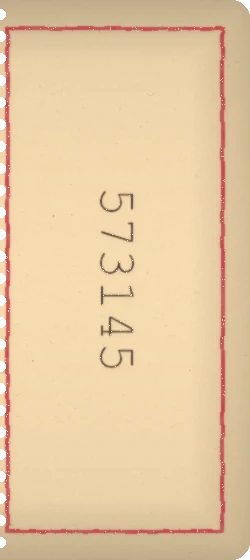
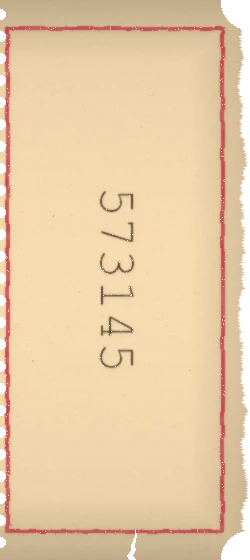
feat: /preview/ with draft renders in place, roll ticket w torn ends, real tape, star irises in

Changed region(s): [[0.868, 0.0, 1.0, 1.0], [0.504, 0.9411, 0.56, 1.0]]

diff --git a/src/styles.css b/src/styles.css
@@ -3060,3 +3060,42 @@ html.is-app, html.is-app body { overflow: hidden; }
 body:not(.is-home) .foot { height: auto; }
 body:not(.is-home) .foot__pin { position: relative; height: 60svh; opacity: 1; }
 .mfx__bill::after { background: linear-gradient(to top, #141414 0%, rgba(20,20,20,0) 32%), linear-gradient(77deg, rgba(0,0,0,0.6) 0%, rgba(0,0,0,0) 62%); }
+/* Tape is a texture of real torn masking tape, not a box. */
+.polaroid::before { clip-path: none !important; background: url("/media/props/tape/tape-1.png") center / 100% 100% no-repeat !important; width: 96px; height: 28px; margin-left: -48px; top: -12px; filter: drop-shadow(0 1px 1px rgba(0,0,0,0.25)); }
+.polaroid:nth-child(2)::before { background-image: url("/media/props/tape/tape-2.png") !important; }
+.polaroid:nth-child(3)::before { background-image: url("/media/props/tape/tape-3.png") !important; }
+
+/* ===== /preview/ only: draft renders standing in for the real ones. */
+.draft-tag { display: none; }
+.is-preview .draft-tag { display: inline-block; position: absolute; z-index: 30; top: 14px; left: 14px; padding: 4px 9px; border-radius: 3px; background: #ffd400; color: #111; font: 600 11px/1.3 "Inter", sans-serif; letter-spacing: 0.04em; text-transform: uppercase; max-width: 60vw; }
+.is-preview .scene--films .scene__pin { --W: max(100vw, 177.78vh); --H: max(56.25vw, 100vh); }
+.is-preview .draft-hall { position: absolute; left: 50%; top: 50%; width: var(--W); height: var(--H); transform: translate(-50%, -50%); object-fit: fill; z-index: 0; }
+.is-preview .scene--films .scene__bg { position: absolute; inset: auto; z-index: 1; left: calc(50% - var(--W) / 2 + var(--W) * 0.297); top: calc(50% - var(--H) / 2 + var(--H) * 0.295); width: calc(var(--W) * 0.4068); height: calc(var(--H) * 0.3954); transform: none !important; }
+.is-preview .scene--films .marquee { display: none; }
+.is-preview .scene--films .scene__copy { z-index: 2; }
+.is-preview .cam__screen { position: relative; overflow: visible !important; aspect-ratio: 933 / 555; }
+.is-preview .draft-mon { position: absolute; z-index: 5; pointer-events: none; left: -46.9%; top: 0; margin-top: -33.86%; width: 192.94%; max-width: none; }
+.is-preview .cam__body { background: none !important; box-shadow: none !important; border: 0 !important; }
+.is-preview .cam__tally { display: none; }
+.is-preview .draft-frame { position: relative; margin: 0 auto; width: min(1200px, 100%); padding: 0 var(--gutter) 80px; }
+.is-preview .draft-frame img { width: 100%; display: block; }
+.is-preview .fl { position: relative; padding: 80px var(--gutter) 120px; background: var(--ground); }
+.is-preview .fl__beats { list-style: none; margin: 40px auto 0; padding: 0; width: min(1200px, 100%); display: grid; grid-template-columns: repeat(3, 1fr); gap: 28px; }
+.is-preview .fl__beat img { width: 100%; aspect-ratio: 16 / 9; object-fit: cover; display: block; filter: saturate(0.7); }
+.is-preview .fl__where { margin: 10px 0 4px; font: 600 12px/1.4 "Inter", sans-serif; letter-spacing: 0.06em; text-transform: uppercase; color: #ffd400; }
+.is-preview .fl__cap { margin: 0; color: rgba(236,228,210,0.8); font-size: 0.92rem; line-height: 1.5; }
+@media (max-width: 700px) { .is-preview .fl__beats { grid-template-columns: 1fr; } }
+.is-preview .draft-slate { position: relative; width: min(380px, 86vw); aspect-ratio: 5 / 6; background: url("/media/draft/slate.webp") center / 100% 100% no-repeat; margin-top: 20px; }
+.is-preview .draft-slate .slate__board { position: absolute; inset: 0; padding: 0 !important; background: none !important; border: 0 !important; box-shadow: none !important; }
+.is-preview .draft-slate label { position: absolute; left: 14.2%; width: 74.4%; height: 6.4%; margin: 0; font-size: 0; color: transparent; }
+.is-preview .draft-slate .row { display: contents; }
+.is-preview .draft-slate .row label:nth-child(1) { top: 67.2%; }
+.is-preview .draft-slate .row label:nth-child(2) { top: 76.5%; }
+.is-preview .draft-slate .slate__board > label { top: 85.9%; }
+.is-preview .draft-slate input, .is-preview .draft-slate textarea { width: 100%; height: 100%; min-height: 0 !important; padding: 0 8px; border: 0 !important; background: transparent !important; font: 500 22px/1 "Caveat", cursive; color: #1e1d1b; resize: none; }
+.is-preview .draft-slate input::placeholder, .is-preview .draft-slate textarea::placeholder { color: rgba(30,29,27,0.45); }
+.is-preview .draft-slate .btn { position: absolute; left: 50%; bottom: -64px; transform: translateX(-50%); }
+.is-preview .draft-slate .form__status { position: absolute; bottom: -100px; left: 0; right: 0; }
+/* The star opens the way Parker closed: an iris. The iris-out on him, the
+   credits on the black, then an iris-in on the star. Same move, bookended. */
+.is-home .foot__pin { opacity: 1; clip-path: circle(calc(var(--fade, 0) * 78%) at 50% 46%); }

diff --git a/build.py b/build.py
@@ -464,6 +464,45 @@ def tv(films):
 """
 
 
+FLIGHT_BEATS = [
+    ("falling", "Dawn over east Boulder, the Flatirons ahead", "2023, Boulder. Falling and Moments From My Life, made for his Film Studies class, and Keeping Up With the Olympians."),
+    ("somnambulist", "Over the First Flatiron, rising past Green Mountain", "2024. Somnambulist, selected by the Colorado High School Film Festival and Rising Stars Colorado."),
+    ("beneath-the-surface", "Climbing west over the Continental Divide", "2024. Beneath the Surface, the film that got him into the USC School of Cinematic Arts."),
+    ("mad", "High over the red rock of the Colorado Plateau at noon", "2024. Mad, the film that got him into Loyola Marymount's Film Production program."),
+    ("abundance", "Across the Mojave, down over the San Gabriels at sunset", "2025, Los Angeles. Abundance, selected for Indie Film LA."),
+    ("scar-tissue", "Mulholland at dusk, Parker on the ridge, the basin lit", "2026, USC. Scar Tissue, Reflect and As We Are, You Shall Be, his shorts for USC production classes."),
+]
+
+
+def preview(home_html):
+    """/preview/: the whole planned site with the props agent's low-sample
+    draft renders standing in, so the layout can be judged before the real
+    renders run. Every stand-in wears a DRAFT tag."""
+    h = home_html.replace('<body class="is-home"', '<body class="is-home is-preview"', 1)
+    h = h.replace("<title>", '<meta name="robots" content="noindex"><title>DRAFT · ', 1)
+    # Director: the premiere hall, the film playing on its screen.
+    h = h.replace('<div class="scene__pin">\n      <div class="scene__bg"',
+                  '<div class="scene__pin">\n      <img class="draft-hall" src="/media/draft/premiere.webp" alt=""><span class="draft-tag">Premiere hall, draft render</span>\n      <div class="scene__bg"', 1)
+    # Cinematographer: the real monitor body around the live feed.
+    h = h.replace('<div class="cam__screen">',
+                  '<div class="cam__screen"><img class="draft-mon" src="/media/draft/monitor.webp" alt=""><span class="draft-tag">Monitor, draft render</span>', 1)
+    # About: the knolled kit after the call sheet, then the flight.
+    beats = "".join(
+        f'<li class="fl__beat"><img src="/media/stills/{s}-1.jpg" alt="" loading="lazy"><p class="fl__where">{w}</p><p class="fl__cap">{e(c)}</p></li>'
+        for s, w, c in FLIGHT_BEATS
+    )
+    after_about = (
+        '<figure class="draft-frame"><img src="/media/draft/knolling.webp" alt="Parker\'s kit laid out on a desk" loading="lazy">'
+        '<span class="draft-tag">Knolling, draft render</span></figure>'
+        '<section class="fl" aria-label="Boulder to Los Angeles"><span class="draft-tag">Flight, storyboard. One continuous take, dawn to dusk, films pinned where they happened</span>'
+        f'<ol class="fl__beats">{beats}</ol></section>'
+    )
+    i = h.index('<section class="reels" id="films"')
+    h = h[:i] + after_about + h[i:]
+    h = h.replace('<div class="slate">', '<div class="slate draft-slate"><span class="draft-tag">Slate, draft render</span>', 1)
+    return h
+
+
 def home(films):
     featured = [f for f in films if f["featured"]]
     archive = [f for f in films if not f["featured"]]
@@ -614,10 +653,10 @@ def home(films):
             <div class="hp" aria-hidden="true"><input type="text" name="_honey" tabindex="-1" autocomplete="off"></div>
             
             <div class="row">
-              <label>Name<input name="name" autocomplete="name" required></label>
-              <label>Email<input name="email" type="email" autocomplete="email" required></label>
+              <label>Name<input name="name" autocomplete="name" placeholder="Your name" required></label>
+              <label>Email<input name="email" type="email" autocomplete="email" placeholder="Your email" required></label>
             </div>
-            <label>Message<textarea name="message" required></textarea></label>
+            <label>Message<textarea name="message" placeholder="Your film" required></textarea></label>
             <button class="btn btn--ember" type="submit">Send</button>
             <p class="form__status" role="status"></p>
           </form>
@@ -747,7 +786,10 @@ def main():
     if DIST.exists():
         shutil.rmtree(DIST)
     DIST.mkdir()
-    (DIST / "index.html").write_text(home(films))
+    home_html = home(films)
+    (DIST / "index.html").write_text(home_html)
+    (DIST / "preview").mkdir(exist_ok=True)
+    (DIST / "preview/index.html").write_text(preview(home_html))
     for i, f in enumerate(films):
         out = DIST / "films" / f["slug"]
         out.mkdir(parents=True)

diff --git a/tools/titles.py b/tools/titles.py
@@ -150,6 +150,46 @@ if __name__ == "__main__":
     print("titles:", sorted(os.listdir(OUT)))
 
 
+def roll_ticket_mask(W, H, seed=7):
+    """A ticket off a roll: the long edges are clean, the short ends were
+    torn from the next ticket so they're ragged, each corner has the round
+    bite the roll's die leaves, and handling has started two small rips."""
+    rng = np.random.default_rng(seed)
+    a = np.full((H, W), 255.0)
+    yy, xx = np.mgrid[0:H, 0:W]
+    R = 30
+    for cx, cy in ((0, 0), (W, 0), (0, H), (W, H)):
+        a[(xx - cx) ** 2 + (yy - cy) ** 2 < R * R] = 0
+    # Torn ends: a slow wander plus fibre-scale jitter, softened at the edge.
+    def torn(n):
+        slow = np.convolve(rng.normal(0, 1, n + 60), np.ones(30) / 30, "same")[30:30 + n]
+        return 7 + 5 * slow / (np.abs(slow).max() + 1e-6) + rng.uniform(0, 2.4, n)
+    for side in (0, 1):
+        d = torn(H)
+        for y in range(H):
+            depth = d[y]
+            xs = np.arange(0, int(depth) + 3)
+            fall = np.clip((xs - depth + 2.5) / 2.5, 0, 1) * 255
+            if side == 0:
+                a[y, : len(xs)] = np.minimum(a[y, : len(xs)], fall)
+            else:
+                a[y, W - len(xs):] = np.minimum(a[y, W - len(xs):], fall[::-1])
+    # Two small rips into the long edges, each a thin tapering split.
+    img = Image.fromarray(a.astype("uint8"))
+    dr = ImageDraw.Draw(img)
+    for x0, top, depth in ((W * 0.31, True, 44), (W - 120, False, 30)):
+        pts = []
+        y = 0 if top else H
+        step = depth / 6
+        for k in range(7):
+            yk = y + (k * step if top else -k * step)
+            pts.append((x0 + rng.uniform(-3, 3) + k * 1.2, yk))
+        left = [(px - 3.2 * (1 - k / 6), py) for k, (px, py) in enumerate(pts)]
+        right = [(px + 3.2 * (1 - k / 6), py) for k, (px, py) in enumerate(pts)]
+        dr.polygon(left + right[::-1], fill=0)
+    return img
+
+
 def ticket(serial="573145"):
     """ADMIT ONE on ticket cardstock, as two pieces (ticket and stub) so the
     page can tear it along the perforation."""
@@ -189,10 +229,7 @@ def ticket(serial="573145"):
     px = W - STUB
     for y in range(14, H, 22):
         da.ellipse((px - 5, y - 5, px + 5, y + 5), fill=0)
-    # Rounded die-cut corners.
-    mask = Image.new("L", (W, H), 0)
-    ImageDraw.Draw(mask).rounded_rectangle((0, 0, W - 1, H - 1), 18, fill=255)
-    alpha = ImageChops.multiply(alpha, mask)
+    alpha = ImageChops.multiply(alpha, roll_ticket_mask(W, H))
     stock = stock.convert("RGBA")
     stock.putalpha(alpha)
     stock.crop((0, 0, px, H)).save(OUT / "ticket-main.webp", "WEBP", quality=88, method=6)

diff --git a/tools/draft_preview.py b/tools/draft_preview.py
@@ -1,0 +1,57 @@
+"""Draft stand-ins for /preview/: the props agent's low-sample test renders,
+keyed and measured, so the whole planned site can be seen before the real
+renders spend an hour each. Outputs media/draft/ and media/draft/boxes.json
+(screen and tape boxes as percentages of each image)."""
+import json
+import sys
+from pathlib import Path
+
+from PIL import Image
+
+SRC = Path(sys.argv[1] if len(sys.argv) > 1 else "/private/tmp/claude-501/pm")
+OUT = Path(__file__).resolve().parent.parent / "media/draft"
+OUT.mkdir(parents=True, exist_ok=True)
+
+
+def key_green(im):
+    """Green screen to alpha, with a soft edge and spill pulled out."""
+    im = im.convert("RGBA")
+    px = im.load()
+    w, h = im.size
+    for y in range(h):
+        for x in range(w):
+            r, g, b, a = px[x, y]
+            lead = g - max(r, b)
+            if lead > 40 and g > 70:
+                px[x, y] = (r, g, b, 0)
+            elif lead > 12:
+                k = (lead - 12) / 28
+                px[x, y] = (r, max(r, b), b, int(255 * (1 - k)))
+    return im
+
+
+def box(quad, size):
+    xs = [p[0] for p in quad]
+    ys = [p[1] for p in quad]
+    w, h = size
+    return {"l": min(xs) / w * 100, "t": min(ys) / h * 100,
+            "w": (max(xs) - min(xs)) / w * 100, "h": (max(ys) - min(ys)) / h * 100}
+
+
+boxes = {}
+pr = json.loads((SRC / "premiere/screen_full.json").read_text())
+Image.open(SRC / "premiere/prev48.png").convert("RGB").save(OUT / "premiere.webp", quality=82)
+boxes["premiere"] = box(pr["corners"][-1], pr["size"])
+
+mo = json.loads((SRC / "monitor/monitor_full.json").read_text())
+key_green(Image.open(SRC / "monitor/prev.png")).save(OUT / "monitor.webp", quality=88)
+boxes["monitor"] = box(mo["screen"], mo["size"])
+
+Image.open(SRC / "knoll/prev.png").convert("RGB").save(OUT / "knolling.webp", quality=82)
+
+sl = json.loads((SRC / "slate/slate_full.json").read_text())
+Image.open(SRC / "slate/prev.png").convert("RGB").save(OUT / "slate.webp", quality=86)
+boxes["slate"] = {k: box(v["quad"], sl["size"]) for k, v in sl["tape"].items()}
+
+(OUT / "boxes.json").write_text(json.dumps(boxes, indent=1))
+print(json.dumps(boxes))
